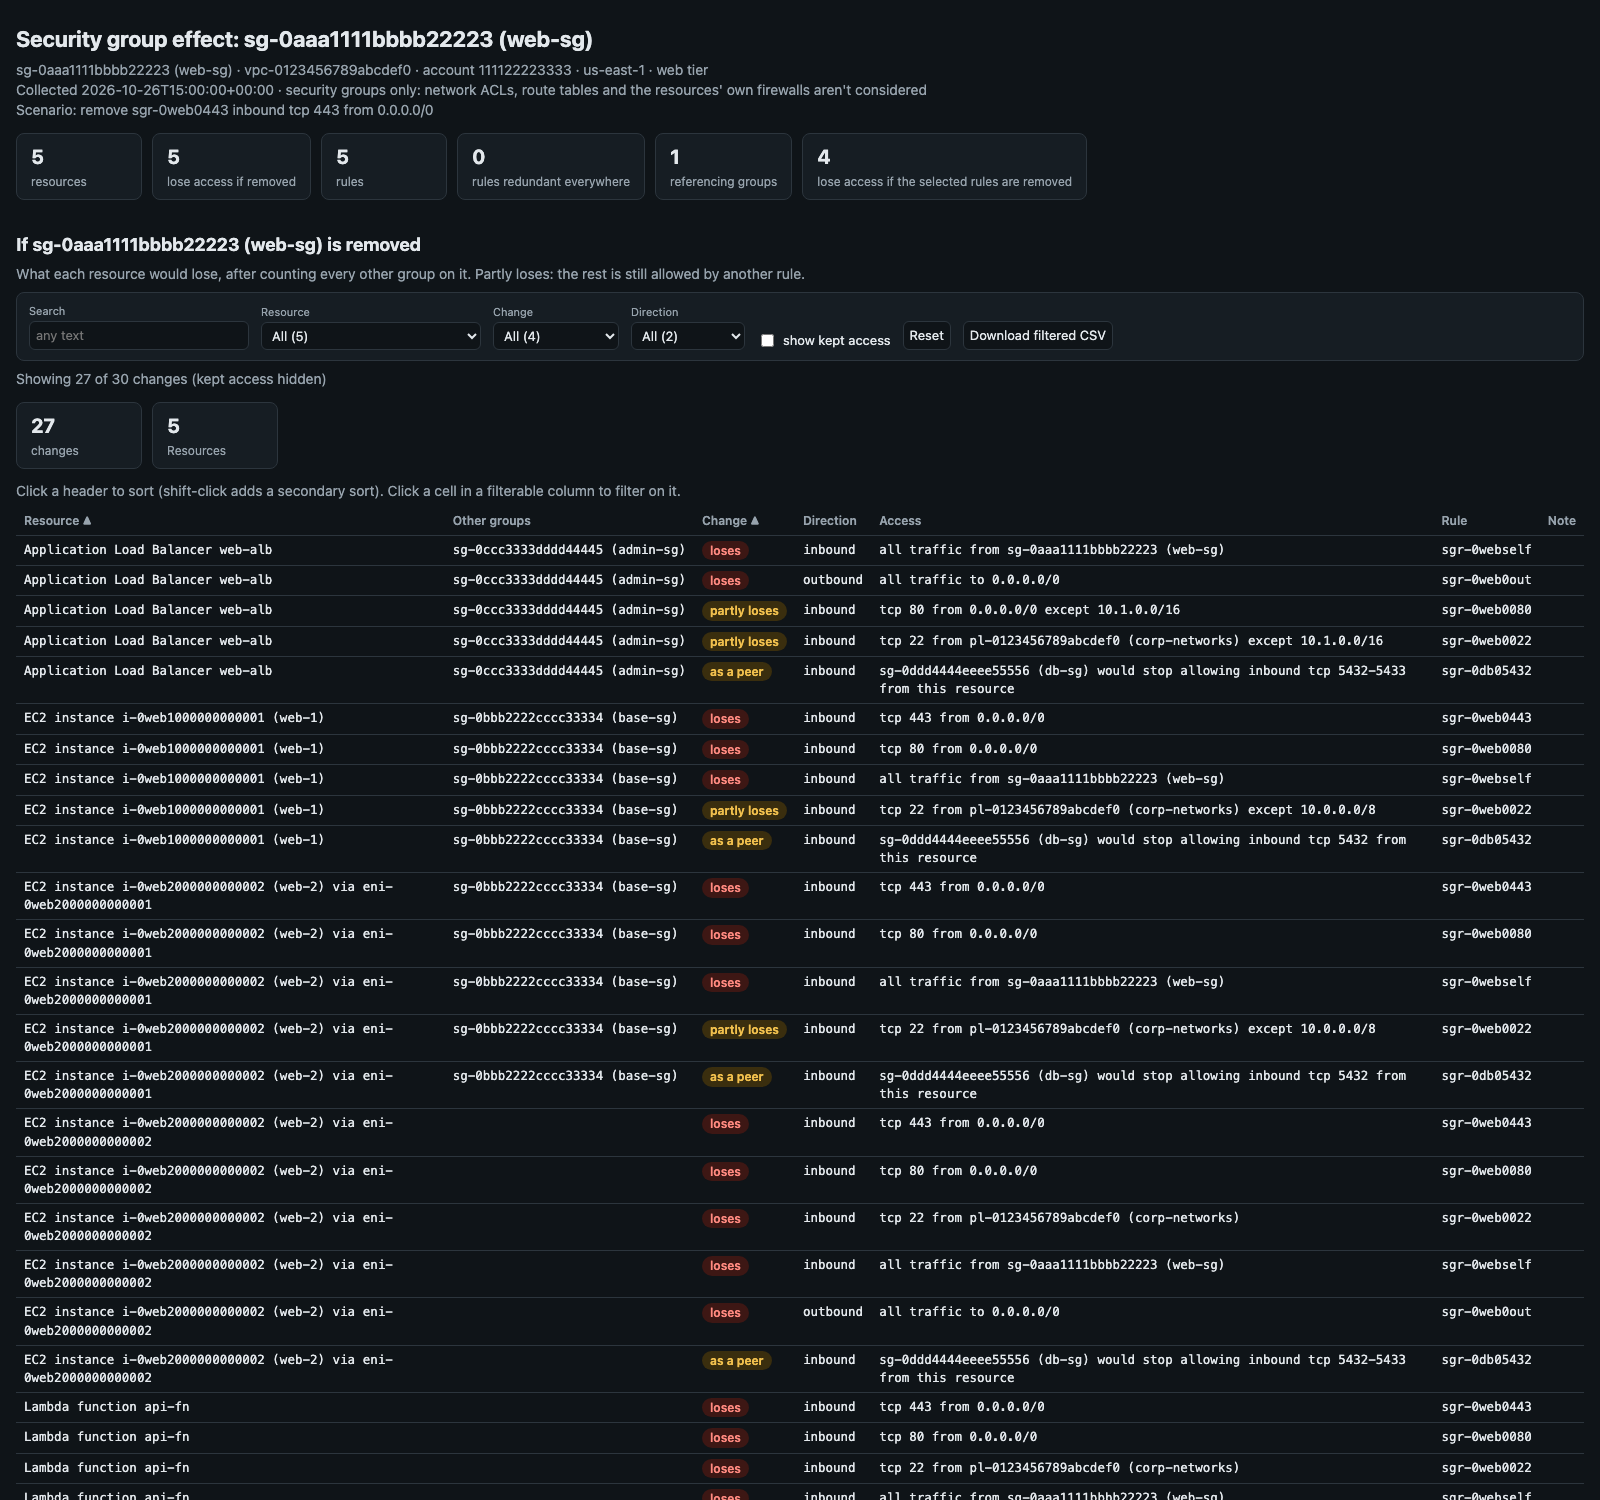
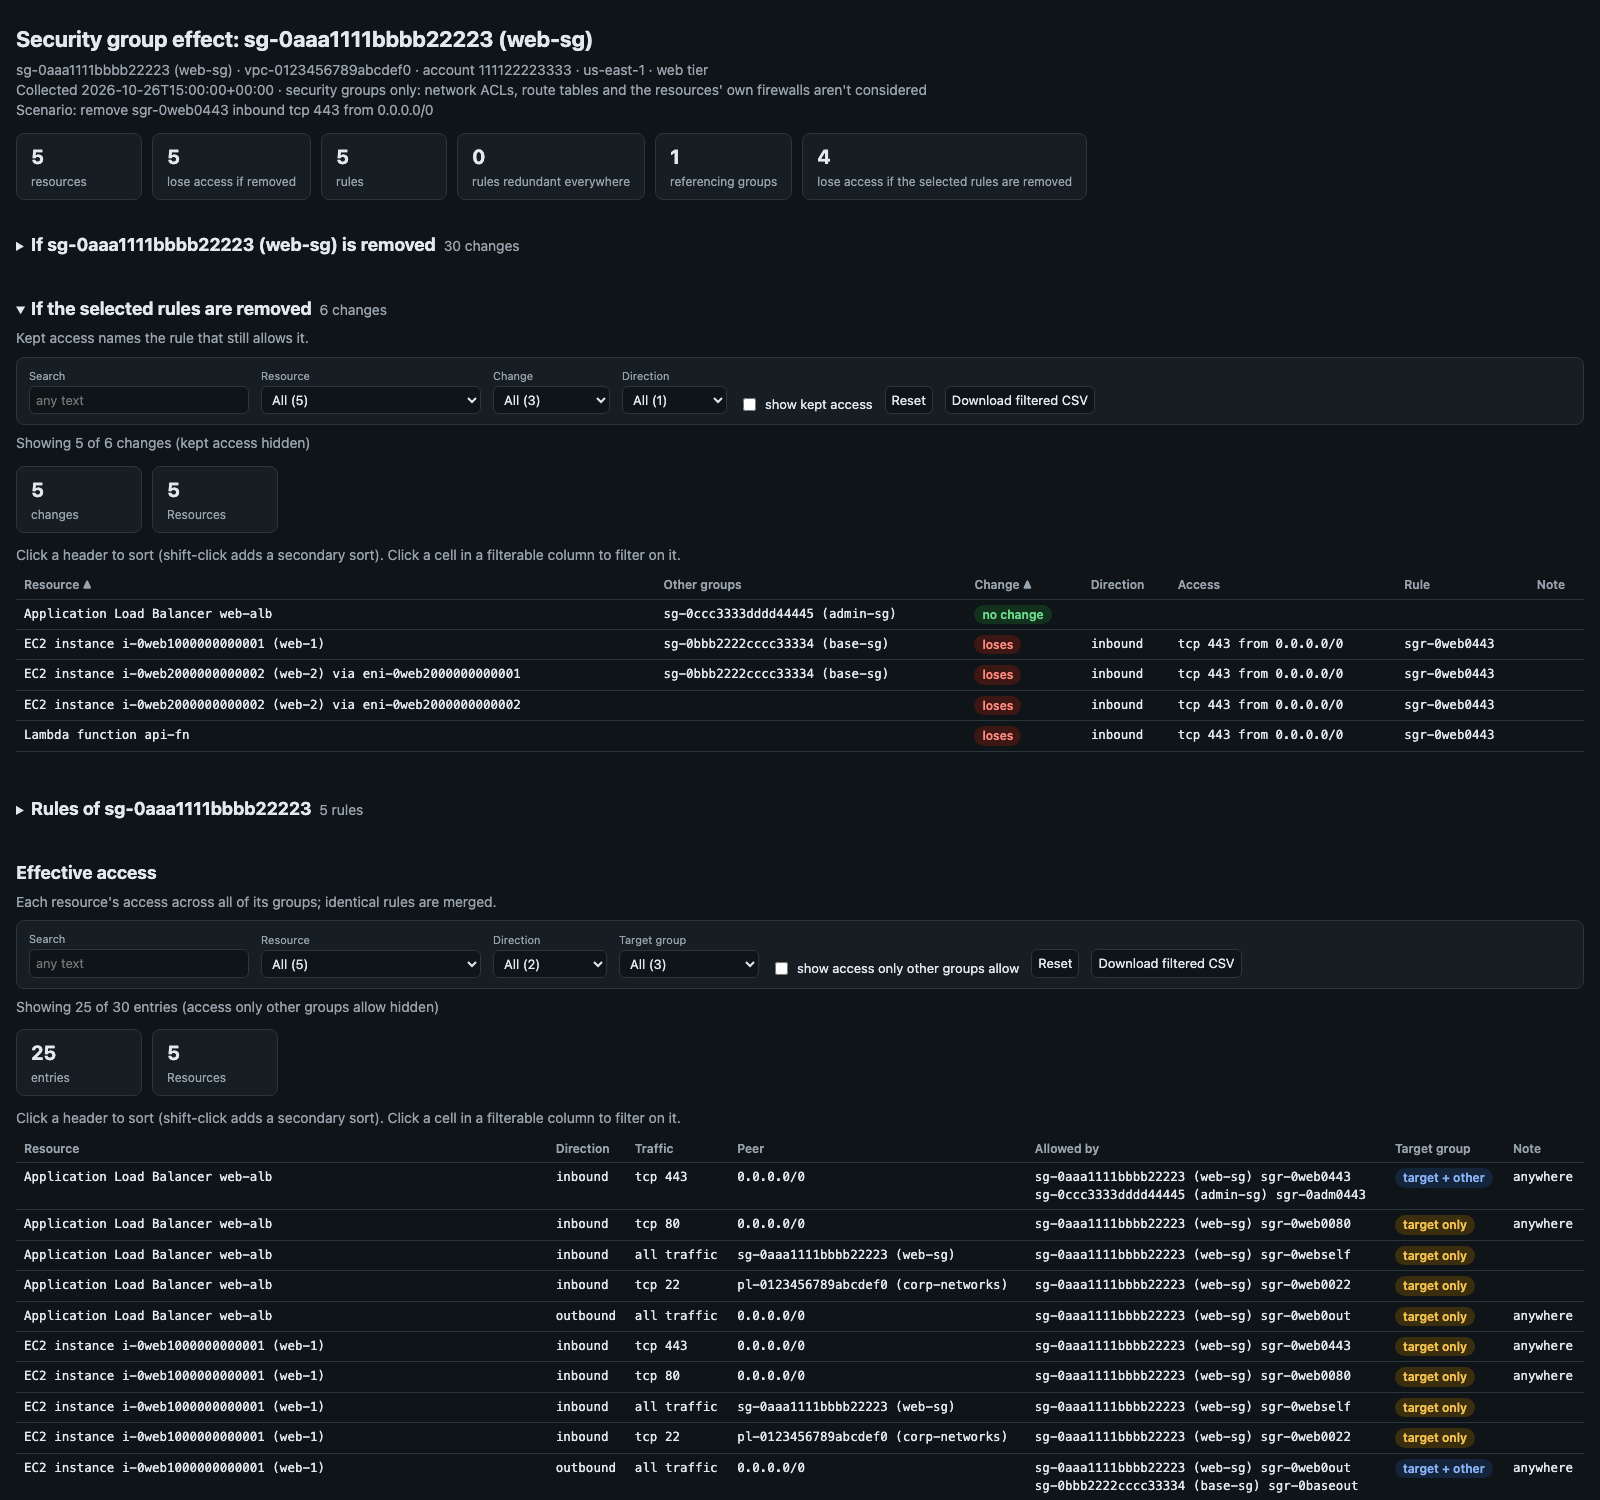
sg_effect: collapse the rules table, and the group-removal table during rule scenarios
html_report gains a per-table 'collapsed' option: the table folds under
its heading (with its row count) and opens with a click; the open state
is kept in the URL fragment with the filters. sg_effect always folds
the rules table, and folds the group-removal table when --remove-rule
is given so the rule removal scenario comes first.

diff --git a/tools/firewall/lib/html_report.py b/tools/firewall/lib/html_report.py
@@ -31,6 +31,8 @@ Table spec (dict):
   sort      initial sort, [[key, 1 | -1], ...]
   hide      {"key": k, "values": [...], "label": "show info"}: hidden until ticked
   by        {"key": k, "label": "By code", "badge": key shown as badge or None}
+  collapsed True: the table starts folded under its heading (click to open); the
+            open/closed state is kept in the URL fragment like the filters
 """
 from __future__ import annotations
 
@@ -73,6 +75,8 @@ td.nw { white-space:nowrap; } td.f { cursor:pointer; } td.f:hover { text-decorat
   font-family:-apple-system,BlinkMacSystemFont,"Segoe UI",Roboto,sans-serif; }
 .error { color:var(--error); background:var(--error-bg); } .warn { color:var(--warn); background:var(--warn-bg); }
 .info { color:var(--info); background:var(--info-bg); } .ok { color:var(--ok); background:var(--ok-bg); }
+details.fold > summary { cursor:pointer; margin:32px 0 6px; } details.fold > summary h2 { display:inline; margin:0; }
+details.fold > summary span { margin-left:8px; }
 </style></head><body>
 <div id="app"></div>
 <script id="data" type="application/json">__DATA__</script>
@@ -107,6 +111,8 @@ function makeTable(t) {
   filters.forEach(k => { if (H.get(P + k)) st.f[k] = H.get(P + k); });
   st.q = H.get(P + "q") || "";
   st.show = H.get(P + "show") === "1";
+  const folds = "collapsed" in t;
+  st.open = H.has(P + "open") ? H.get(P + "open") === "1" : !t.collapsed;
   if (H.get(P + "sort")) {
     const s = H.get(P + "sort").split(",").filter(x => LABEL[x.replace(/^-/, "")])
       .map(x => x.startsWith("-") ? [x.slice(1), -1] : [x, 1]);
@@ -119,7 +125,9 @@ function makeTable(t) {
     return Object.keys(c).sort((a, b) => rk ? rk.indexOf(a) - rk.indexOf(b)
       : a.localeCompare(b, undefined, {numeric: true})).map(v => [v, c[v]]);
   };
-  sec.innerHTML = `<h2>${esc(t.title)}</h2>` + (t.note ? `<div class="muted">${esc(t.note)}</div>` : "") +
+  sec.innerHTML = (folds ? `<details class="fold" data-r="fold"${st.open ? " open" : ""}><summary><h2>${esc(t.title)}</h2>` +
+      `<span class="muted">${t.rows.length} ${esc(t.row_label || "rows")}</span></summary>` : `<h2>${esc(t.title)}</h2>`) +
+    (t.note ? `<div class="muted">${esc(t.note)}</div>` : "") +
     `<div class="controls"><label>Search<input type="search" data-r="q" placeholder="any text"></label>` +
     filters.map(k => { const o = opts(k);
       return `<label>${esc(LABEL[k] || k)}<select data-k="${esc(k)}"><option value="">All (${o.length})</option>` +
@@ -129,7 +137,8 @@ function makeTable(t) {
     `<div class="muted" data-r="shown"></div><div class="cards" data-r="uniq"></div>` +
     (t.by ? `<h3>${esc(t.by.label)}</h3><div class="wrap"><table data-r="by"></table></div>` : "") +
     `<div class="muted">Click a header to sort (shift-click adds a secondary sort). ` +
-    `Click a cell in a filterable column to filter on it.</div><div class="wrap"><table data-r="tbl"></table></div>`;
+    `Click a cell in a filterable column to filter on it.</div><div class="wrap"><table data-r="tbl"></table></div>` +
+    (folds ? `</details>` : "");
   const $ = r => sec.querySelector(`[data-r="${r}"]`);
   const sync = () => {
     $("q").value = st.q;
@@ -216,8 +225,10 @@ function makeTable(t) {
     a.download = `${t.id}_filtered.csv`;
     a.click();
   });
+  if (folds) $("fold").addEventListener("toggle", e => { st.open = e.target.open; saveHash(); });
   sync();
   return {id: t.id, render, save: p => {
+    if (folds && st.open === !!t.collapsed) p.set(P + "open", st.open ? "1" : "0");
     Object.entries(st.f).forEach(([k, v]) => v && p.set(P + k, v));
     if (st.q) p.set(P + "q", st.q);
     if (st.show) p.set(P + "show", "1");

diff --git a/tools/firewall/sg_effect.py b/tools/firewall/sg_effect.py
@@ -716,9 +716,10 @@ def change_rows(result: dict, key: str = "remove_sg") -> list[dict]:
     return rows
 
 
-def _change_table(tid: str, title: str, note: str, rows: list[dict]) -> dict:
+def _change_table(tid: str, title: str, note: str, rows: list[dict], collapsed: bool = False) -> dict:
     """html_report table spec for a scenario's change rows."""
     return {
+        "collapsed": collapsed,
         "id": tid, "title": title, "note": note, "row_label": "changes",
         "columns": [["resource", "Resource"], ["also", "Other groups"], ["change", "Change"],
                     ["direction", "Direction"], ["access", "Access"], ["rule", "Rule"], ["note", "Note"]],
@@ -747,7 +748,8 @@ def render_html(result: dict) -> str:
             " · security groups only: network ACLs, route tables and the resources' own firewalls aren't considered"]
     tables = [_change_table("remove_group", f"If {group_label(t['id'], names)} is removed",
                             "What each resource would lose, after counting every other group on it. Partly loses: "
-                            "the rest is still allowed by another rule.", rows_sg)]
+                            "the rest is still allowed by another rule.", rows_sg,
+                            collapsed=bool(result["removing"]))]   # a rule scenario leads when given
     if result["removing"]:
         rows_r = change_rows(result, "remove_rules")
         lose = len({r["resource"] for r in rows_r if r["change"] not in ("keeps", "no change")})
@@ -756,7 +758,7 @@ def render_html(result: dict) -> str:
         tables.append(_change_table("remove_rules", "If the selected rules are removed",
                                     "Kept access names the rule that still allows it.", rows_r))
     tables.append({
-        "id": "rules", "title": f"Rules of {t['id']}", "row_label": "rules",
+        "id": "rules", "title": f"Rules of {t['id']}", "row_label": "rules", "collapsed": True,
         "columns": [["rule", "Rule"], ["text", "Allows"], ["description", "Description"], ["verdict", "Where it matters"],
                     ["unique_on", "Only rule allowing it on"]],
         "rows": [{"rule": x["rule"], "text": x["text"], "description": x.get("description") or "",

diff --git a/tools/firewall/tests/test_sg_effect.py b/tools/firewall/tests/test_sg_effect.py
@@ -357,6 +357,10 @@ def test_html_report(bundle):
     assert [x["change"] for x in ok["tables"][1]["rows"]] == ["no change", "keeps"]
     plain = html_data(sge.render_html(sge.analyze(b)))
     assert [t["id"] for t in plain["tables"]][:2] == ["remove_group", "rules"]
+    folded = {t["id"]: t.get("collapsed") for t in d["tables"]}
+    assert folded["remove_group"] is True and folded["rules"] is True and not folded["remove_rules"]
+    folded = {t["id"]: t.get("collapsed") for t in plain["tables"]}
+    assert folded["remove_group"] is False and folded["rules"] is True
 
 
 def test_change_rows_csv(bundle):

diff --git a/tools/firewall/tests/test_html_report.py b/tools/firewall/tests/test_html_report.py
@@ -77,3 +77,9 @@ def test_write(tmp_path):
     path = tmp_path / "r.html"
     html_report.write(path, "T", tables=[TABLE])
     assert path.read_text(encoding="utf-8") == html_report.render("T", tables=[TABLE])
+
+
+def test_collapsed_tables_fold_under_their_heading():
+    out = html_report.render("R", tables=[{**TABLE, "collapsed": True}])
+    assert json.loads(block(out, "data"))["tables"][0]["collapsed"] is True
+    assert 'details class="fold"' in out and 'P + "open"' in out

diff --git a/tools/firewall/doc/sg_effect.md b/tools/firewall/doc/sg_effect.md
@@ -227,6 +227,8 @@ Plus the [common output flags](../README.md#reports).
 - **HTML**: summary cards, then filterable tables: the changes if the group is removed (kept access hidden until
   ticked), the changes if the selected rules are removed, the target's rules and where each is the only rule
   allowing its traffic, every resource's effective access, the referencing groups, and any warnings.
+  The rules table starts collapsed, and so does the group-removal table when `--remove-rule` is given, so the
+  rule removal scenario comes first. Click a table's heading to open it.
 
 Exit codes: `0` ok, `1` the `--remove-rule` scenario takes access away from at least one resource (so a script
 can check that a clean-up is safe), `2` fatal error.

diff --git a/tools/firewall/README.md b/tools/firewall/README.md
@@ -142,6 +142,7 @@ assets, light/dark aware), safe to attach or email. Most are interactive:
 - unique counts (accounts, regions, policies, VPCs, NACLs ...) for the current filter, plus a summary table
 - multi-column sort (shift-click a header) and "Download filtered CSV"
 - info-level rows hidden until ticked
+- secondary tables can start collapsed under their heading (click to open)
 - the current view kept in the URL fragment, so it can be bookmarked
 
 The `sg_access_gap` report is a static page laid out per direction. The
